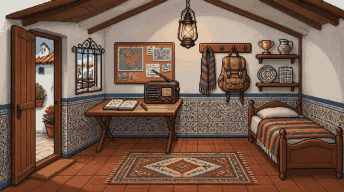
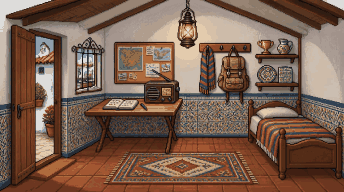
Linu de lado nítido; para do lado da cama e da estante; selos no meio do objeto
- O Linu de lado (andando) passa pelo mesmo processo das outras camadas:
  pixels cheios, poucas cores e contorno, em vez da redução suavizada
  que deixava ele com cara de borrado perto da cena (linu-pixel.py).
- Em todas as moradias, ao ir até a cama ou até a estante (que fica em
  cima da cama) o Linu para ao lado da cama, não em cima dela.
- O selo de pendência fica em cima do objeto, no meio, e não no canto
  (no canto, a cama larga deixava o selo solto na parede).
- Casas andaluza e toscana refeitas dos originais do Canva (1680 × 944).

diff --git a/src/components/PixelShelter.tsx b/src/components/PixelShelter.tsx
@@ -97,8 +97,8 @@ export const MORADIAS: Moradia[] = [
       caderno: [100, 96, 40, 16, 122],
       radio: [143, 77, 38, 25, 162],
       cabideiro: [197, 45, 54, 60, 222],
-      estante: [255, 45, 44, 45, 262],
-      cama: [243, 105, 92, 62, 236],
+      estante: [255, 45, 44, 45, 219],
+      cama: [243, 105, 92, 62, 219],
     }),
     lampiao: [178, 3, 22, 44],
     parada: 0,
@@ -118,8 +118,8 @@ export const MORADIAS: Moradia[] = [
       caderno: [86, 98, 40, 14, 110],
       radio: [138, 85, 34, 20, 156],
       cabideiro: [194, 40, 58, 60, 222],
-      estante: [256, 40, 44, 42, 270],
-      cama: [240, 100, 95, 65, 232],
+      estante: [256, 40, 44, 42, 216],
+      cama: [240, 100, 95, 65, 216],
     }),
     lampiao: [176, 3, 18, 40],
     parada: 1,
@@ -140,7 +140,7 @@ export const MORADIAS: Moradia[] = [
       radio: [134, 83, 34, 23, 150],
       cabideiro: [195, 45, 48, 60, 220],
       estante: [245, 40, 37, 75, 258],
-      cama: [282, 60, 62, 115, 274],
+      cama: [282, 60, 62, 115, 258],
     }),
     lampiao: [172, 5, 20, 40],
     parada: 3,
@@ -160,8 +160,8 @@ export const MORADIAS: Moradia[] = [
       caderno: [100, 92, 37, 12, 118],
       radio: [140, 75, 32, 23, 156],
       cabideiro: [196, 42, 62, 75, 226],
-      estante: [260, 40, 40, 40, 270],
-      cama: [242, 98, 98, 77, 236],
+      estante: [260, 40, 40, 40, 218],
+      cama: [242, 98, 98, 77, 218],
     }),
     lampiao: [174, 3, 19, 34],
     parada: 6,
@@ -181,8 +181,8 @@ export const MORADIAS: Moradia[] = [
       caderno: [95, 98, 42, 14, 118],
       radio: [136, 80, 39, 24, 156],
       cabideiro: [196, 40, 52, 68, 222],
-      estante: [254, 40, 42, 50, 266],
-      cama: [244, 100, 90, 80, 238],
+      estante: [254, 40, 42, 50, 220],
+      cama: [244, 100, 90, 80, 220],
     }),
     lampiao: [175, 3, 18, 42],
     parada: 8,
@@ -203,8 +203,8 @@ export const MORADIAS: Moradia[] = [
       caderno: [102, 98, 38, 13, 120],
       radio: [143, 80, 36, 24, 158],
       cabideiro: [198, 42, 52, 55, 224],
-      estante: [255, 38, 44, 52, 268],
-      cama: [248, 98, 90, 82, 242],
+      estante: [255, 38, 44, 52, 224],
+      cama: [248, 98, 90, 82, 224],
     }),
     lampiao: [178, 3, 20, 45],
     parada: 8,
@@ -225,8 +225,8 @@ export const MORADIAS: Moradia[] = [
       caderno: [100, 96, 40, 14, 120],
       radio: [142, 78, 38, 26, 158],
       cabideiro: [195, 42, 55, 60, 222],
-      estante: [255, 32, 45, 55, 268],
-      cama: [242, 98, 96, 82, 236],
+      estante: [255, 32, 45, 55, 218],
+      cama: [242, 98, 96, 82, 218],
     }),
     lampiao: [178, 3, 20, 42],
     parada: 8,
@@ -332,7 +332,9 @@ export function PixelShelter({ moradia = MORADIAS[0], selos, onObjeto }: { morad
                 {!!selo && (
                   <View
                     pointerEvents="none"
-                    className={`absolute -right-1.5 -top-1.5 h-5 min-w-5 items-center justify-center rounded-full border-2 border-white px-1 ${selo === '!' ? 'bg-amber-400' : 'bg-rose-500'}`}
+                    // em cima do objeto, no meio (no canto, um objeto largo deixava o selo solto na parede)
+                    style={{ position: 'absolute', top: -8, left: '50%', marginLeft: -10 }}
+                    className={`h-5 min-w-5 items-center justify-center rounded-full border-2 border-white px-1 ${selo === '!' ? 'bg-amber-400' : 'bg-rose-500'}`}
                   >
                     <Text className="text-[10px] font-extrabold text-white">{selo}</Text>
                   </View>

diff --git a/scripts/linu-pixel.py b/scripts/linu-pixel.py
@@ -100,7 +100,37 @@ def costas(fundo, cor):
     return im
 
 
+def lado():
+    """O Linu de lado (andando): o pinguim do PixelLab (assets/pixel/linu-pixel.png, fundo cinza liso),
+    recortado e reduzido do mesmo jeito que as outras camadas — pixels cheios, poucas cores e contorno —,
+    para não parecer borrado ao lado da cena."""
+    from collections import deque
+    src = Image.open(os.path.join(ROOT, 'assets', 'pixel', 'linu-pixel.png')).convert('RGBA')
+    w0, h0 = src.size
+    px = src.load()
+    fundo, sombra = px[0, 0], (99, 109, 117, 255)
+    vistos, fila = set(), deque([(x, y) for x in range(w0) for y in (0, h0 - 1)] + [(x, y) for y in range(h0) for x in (0, w0 - 1)])
+    while fila:
+        x, y = fila.popleft()
+        if (x, y) in vistos or not (0 <= x < w0 and 0 <= y < h0) or px[x, y] not in (fundo, sombra):
+            continue
+        vistos.add((x, y))
+        px[x, y] = (0, 0, 0, 0)
+        fila.extend([(x + 1, y), (x - 1, y), (x, y + 1), (x, y - 1)])
+    corte = src.crop(src.getbbox())
+    global W, H
+    W0, H0 = W, H
+    W, H = 44, 60
+    try:
+        esq = pixelate(corte, colors=14)
+    finally:
+        W, H = W0, H0
+    esq.save(os.path.join(ROOT, 'assets', 'pixel', 'linu-sprite-esquerda.png'))
+    ImageOps.mirror(esq).save(os.path.join(ROOT, 'assets', 'pixel', 'linu-sprite-direita.png'))
+
+
 def main():
+    lado()
     global CORPO
     CORPO = cores_do_corpo()
     pares = {}
